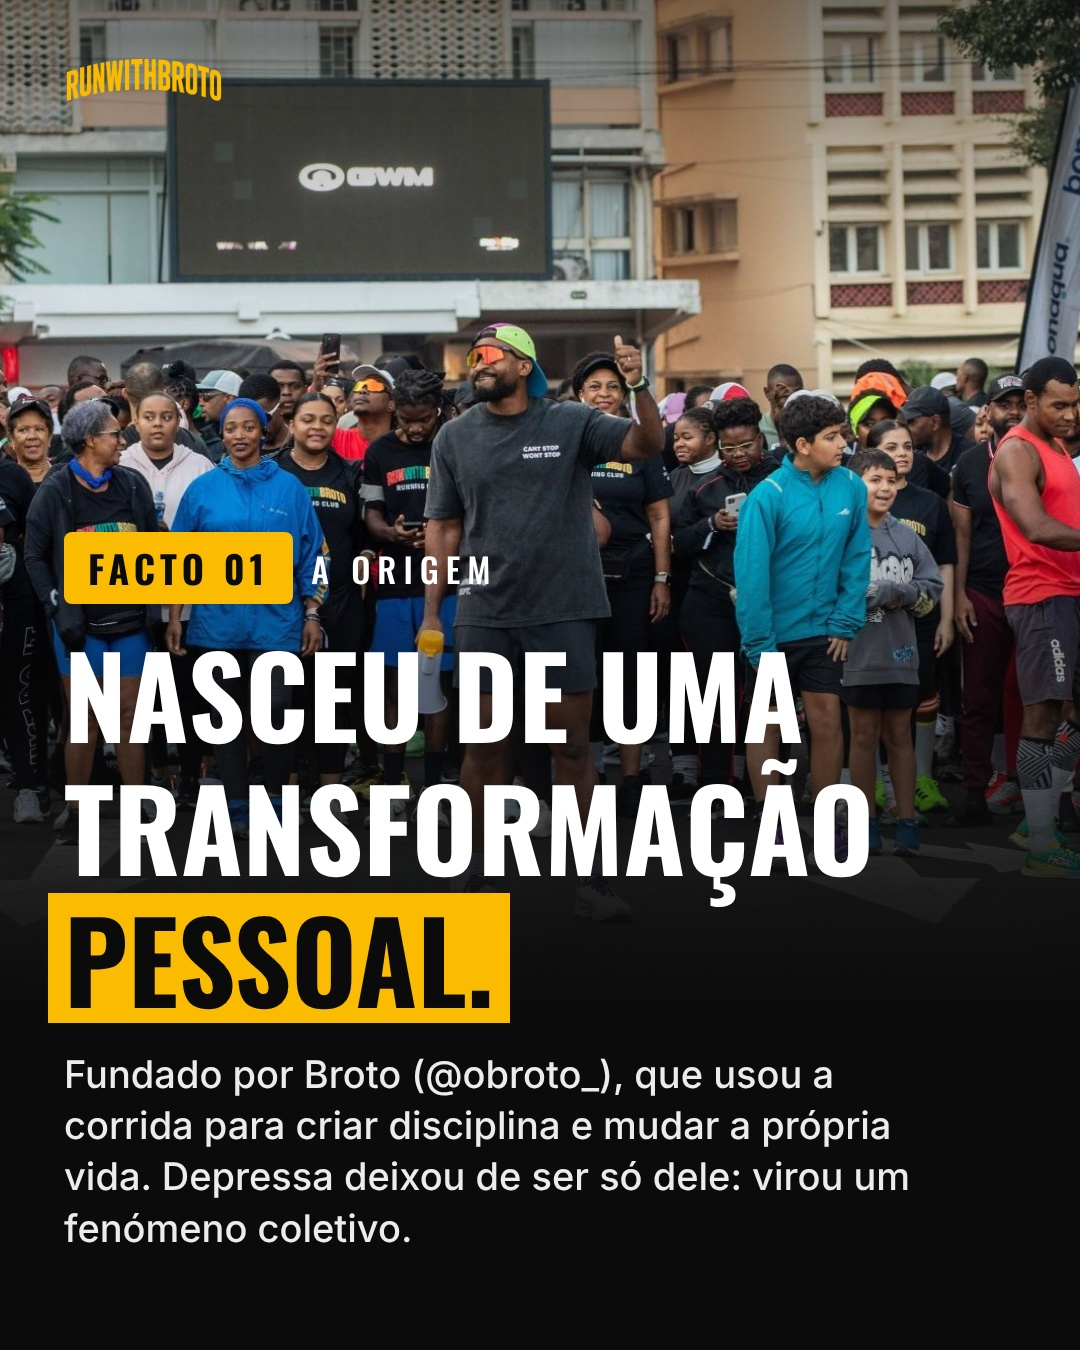
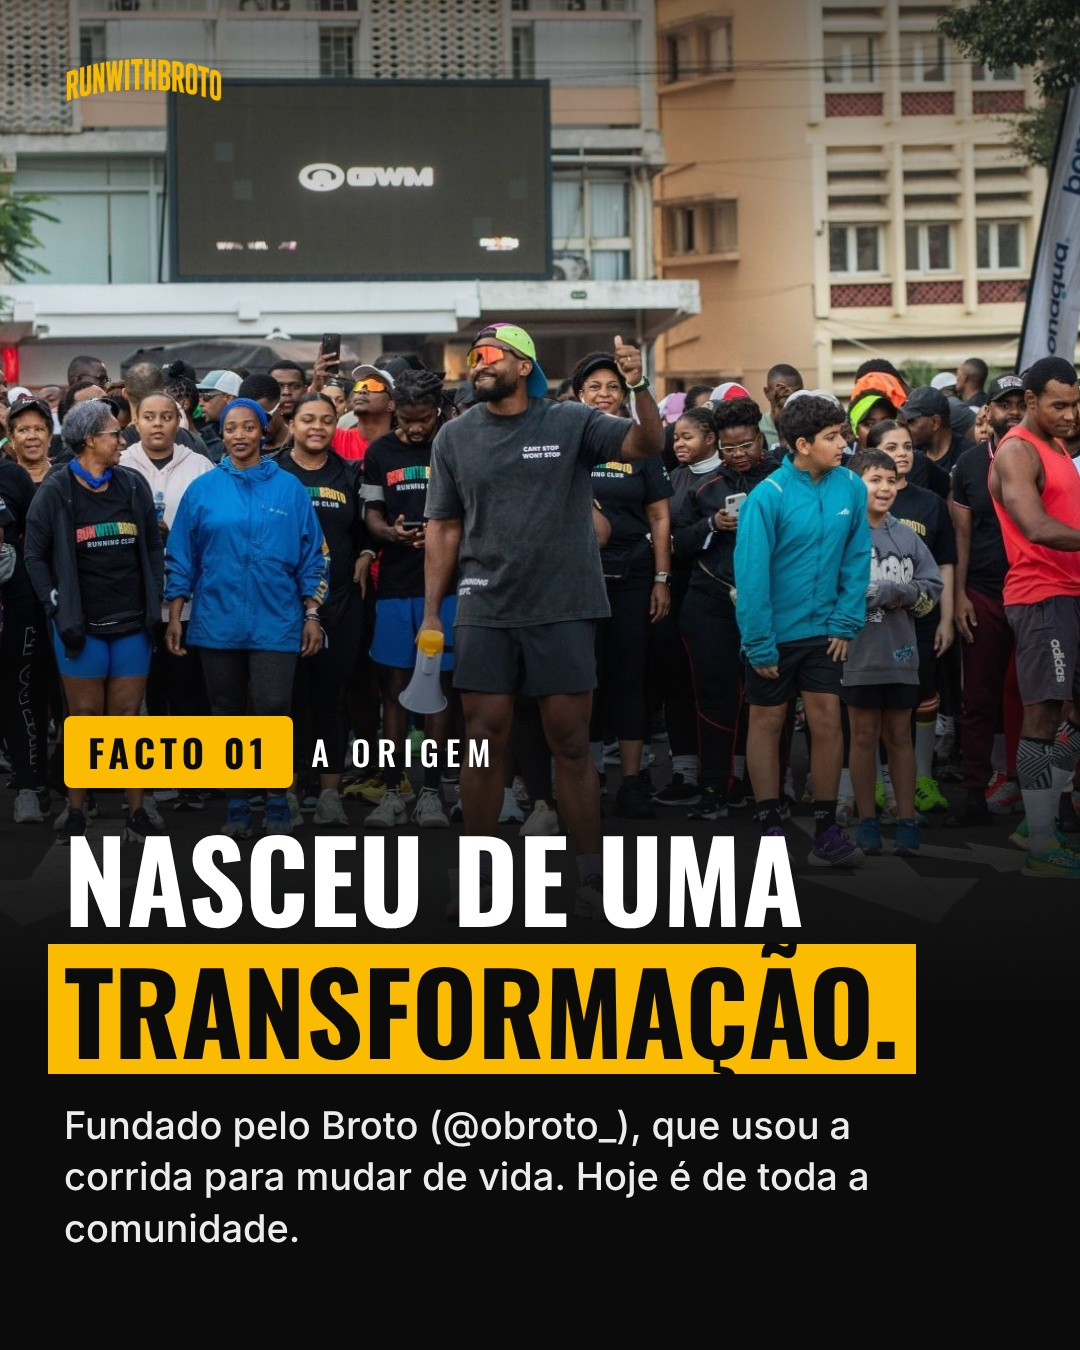
Carrossel: fotos limpas nos factos 2 e 3, texto do facto 1 resumido e painel LED no facto 6
Claude-Session: https://claude.ai/code/session_01DkaCWGXuFd6yQ1MSFtQr7D

Changed region(s): [[0.0306, 0.3733, 0.8556, 0.9333]]

diff --git a/src/Carousel.tsx b/src/Carousel.tsx
@@ -201,6 +201,42 @@ const NightArt: React.FC<{accent: string}> = ({accent}) => {
   );
 };
 
+/** Painel de pontos luminosos (estilo LED) a escrever o número. */
+const LED_FONT: Record<string, string[]> = {
+  "0": ["01110", "10001", "10011", "10101", "11001", "10001", "01110"],
+  "1": ["00100", "01100", "00100", "00100", "00100", "00100", "01110"],
+  "2": ["01110", "10001", "00001", "00010", "00100", "01000", "11111"],
+  "5": ["11111", "10000", "11110", "00001", "00001", "10001", "01110"],
+  "+": ["00000", "00100", "00100", "11111", "00100", "00100", "00000"],
+};
+const LedNumber: React.FC<{text: string; accent: string}> = ({text, accent}) => {
+  const P = 28; // passo entre pontos
+  const PAD_BOARD = 30;
+  const lit: {x: number; y: number}[] = [];
+  const off: {x: number; y: number}[] = [];
+  let col = 0;
+  text.split("").forEach((c, k) => {
+    LED_FONT[c].forEach((row, y) => row.split("").forEach((v, x) => (v === "1" ? lit : off).push({x: col + x, y})));
+    col += 5 + (k === 1 ? 3 : 1); // pausa maior a seguir ao 2 (lê-se "2 500")
+  });
+  const cols = col - 1;
+  const w = cols * P + PAD_BOARD * 2, h = 7 * P + PAD_BOARD * 2;
+  const cx = (x: number) => PAD_BOARD + x * P + P / 2, cy = (y: number) => PAD_BOARD + y * P + P / 2;
+  return (
+    <svg width={w} height={h} viewBox={`0 0 ${w} ${h}`} style={{display: "block", marginBottom: 26}}>
+      <rect x="1" y="1" width={w - 2} height={h - 2} rx="30" fill="rgba(8,8,10,0.88)" stroke="rgba(255,255,255,0.14)" strokeWidth="2" />
+      {off.map(({x, y}, i) => <circle key={`o${i}`} cx={cx(x)} cy={cy(y)} r={4} fill="#fff" opacity={0.14} />)}
+      {lit.map(({x, y}, i) => (
+        <g key={i}>
+          <circle cx={cx(x)} cy={cy(y)} r={13} fill={accent} opacity={0.22} />
+          <circle cx={cx(x)} cy={cy(y)} r={10.5} fill={accent} />
+          <circle cx={cx(x) - 3} cy={cy(y) - 3} r={3.6} fill="#fff" opacity={0.6} />
+        </g>
+      ))}
+    </svg>
+  );
+};
+
 const Fact: React.FC<{s: FactSlide}> = ({s}) => {
   const lines = s.title.split("\n");
   const stat = s.stat;
@@ -224,7 +260,8 @@ const Fact: React.FC<{s: FactSlide}> = ({s}) => {
           <div style={{background: s.accent, color: INK, fontFamily: OSWALD, fontWeight: 700, fontSize: 38, letterSpacing: 5, padding: "8px 24px", borderRadius: 8}}>{s.kicker}</div>
           <div style={{fontFamily: OSWALD, fontWeight: 500, fontSize: 34, letterSpacing: 7, color: "#fff"}}>{s.chapter}</div>
         </div>
-        {stat && (stat.stamp
+        {stat && stat.led && <LedNumber text={stat.text} accent={s.accent} />}
+        {stat && !stat.led && (stat.stamp
           ? <div style={{display: "inline-block", background: s.accent, color: INK, fontFamily: OSWALD, fontWeight: 700, fontSize: 190, lineHeight: 1, padding: "4px 30px 12px", borderRadius: 8, transform: "rotate(-3deg)", marginBottom: 14}}>{stat.text}</div>
           : <div style={{fontFamily: OSWALD, fontWeight: 700, fontSize: 250, lineHeight: 0.95, color: s.accent, textShadow: "0 6px 40px rgba(0,0,0,0.5)"}}>{stat.text}</div>)}
         {lines.map((l, k) => {
@@ -236,7 +273,7 @@ const Fact: React.FC<{s: FactSlide}> = ({s}) => {
             </div>
           );
         })}
-        <div style={{fontFamily: INTER, fontWeight: 500, fontSize: 38, lineHeight: 1.35, color: "#ececec", marginTop: 26, maxWidth: 900}}>{s.body}</div>
+        {s.body && <div style={{fontFamily: INTER, fontWeight: 500, fontSize: 38, lineHeight: 1.35, color: "#ececec", marginTop: 26, maxWidth: 900}}>{s.body}</div>}
       </div>
     </AbsoluteFill>
   );

diff --git a/src/facts.ts b/src/facts.ts
@@ -18,12 +18,12 @@ export type Fact = {
 };
 
 export const FACTS: Fact[] = [
-  {kicker: "FACTO 01", chapter: "A ORIGEM", anim: "slideUp", title: "Nasceu de uma\ntransformação\npessoal.", body: "Fundado por Broto (@obroto_), que usou a corrida para criar disciplina e mudar a própria vida. Depressa deixou de ser só dele: virou um fenómeno coletivo.", photo: "photos/broto.jpg"},
-  {kicker: "FACTO 02", chapter: "A EXPANSÃO", anim: "slideUp", title: "Nasceu em\nMaputo.\nChegou à Matola.", body: "A comunidade saiu de Maputo e levou a corrida a novas ruas.", photo: "photos/02.jpg", cut: "photos/02-cut.png", pos: "52% 50%", route: ["MAPUTO", "MATOLA"]},
-  {kicker: "FACTO 03", chapter: "O LEMA", anim: "words", deco: "pack", title: "Ninguém fica\npara trás.", body: "We run together. We grow together. A consistência vence a motivação. E a rua é para todos.", photo: "photos/03.jpg", cut: "photos/03-cut.png"},
+  {kicker: "FACTO 01", chapter: "A ORIGEM", anim: "slideUp", title: "Nasceu de uma\ntransformação.", body: "Fundado pelo Broto (@obroto_), que usou a corrida para mudar de vida. Hoje é de toda a comunidade.", photo: "photos/broto.jpg"},
+  {kicker: "FACTO 02", chapter: "A EXPANSÃO", anim: "slideUp", title: "Nasceu em\nMaputo.\nChegou à Matola.", body: "A comunidade saiu de Maputo e levou a corrida a novas ruas.", photo: "photos/02.jpg", pos: "52% 50%", route: ["MAPUTO", "MATOLA"]},
+  {kicker: "FACTO 03", chapter: "O LEMA", anim: "words", deco: "pack", title: "Ninguém fica\npara trás.", body: "We run together. We grow together. A consistência vence a motivação. E a rua é para todos.", photo: "photos/03.jpg",},
   {kicker: "FACTO 04", chapter: "O RITUAL", anim: "slideX", accent: "#6aa7ff", title: "Quinta é dia\nde Caracol", body: "Todas as quintas à noite, a Night Run parte do Caracol, em Maputo.", photo: "photos/night.jpg"},
   {kicker: "FACTO 05", chapter: "O FORMATO", anim: "zoom", title: "Hybrid\nrace", body: "Cada grupo partiu de um ponto diferente. Todos se encontraram na mesma meta.", photo: "photos/fort.jpg"},
-  {kicker: "FACTO 06", chapter: "A COMUNIDADE", anim: "wipeX", deco: "dots", title: "membros\nactivos.", body: "Eventos chegam a ter mais de 1 000 inscrições numa única semana.", photo: "photos/nov.jpg", stat: {to: 2500, prefix: "+"}},
+  {kicker: "FACTO 06", chapter: "A COMUNIDADE", anim: "wipeX", deco: "dots", title: "membros\nactivos.", body: "", photo: "photos/04.jpg", stat: {to: 2500, prefix: "+"}},
   {kicker: "FACTO 07", chapter: "AS CAUSAS", anim: "slideX", accent: "#ff5fa2", title: "inscritos no\nOutubro Rosa.", body: "Uma corrida para conscientizar sobre a prevenção do câncer de mama.", photo: "photos/05.jpg", stat: {to: 1000, prefix: "+"}},
   {kicker: "FACTO 08", chapter: "A LIBERDADE", anim: "zoom", accent: "#ff8a1f", deco: "sun", title: "Ao amanhecer.", body: "No Dia da Independência, centenas de pessoas correm juntas, celebrando a liberdade em movimento.", photo: "photos/06.jpg", cut: "photos/06-cut.png", stat: {text: "25 JUN"}},
 ];

diff --git a/src/carousel.ts b/src/carousel.ts
@@ -7,16 +7,16 @@ export const HANDLE = "@runwithbroto_";
 
 export type FactSlide = {
   kind: "fact"; kicker: string; chapter: string; title: string; body: string; photo: string; cut?: string; pos: string;
-  accent: string; night?: boolean; shift?: number; diagram?: "hybrid" | "night"; stat?: {text: string; stamp?: boolean};
+  accent: string; night?: boolean; shift?: number; diagram?: "hybrid" | "night"; stat?: {text: string; stamp?: boolean; led?: boolean};
 };
 export type Slide = {kind: "cover"; prompt: string; photo: string; pos: string} | FactSlide | {kind: "cta"};
 
 const BRAND = "#fabb00";
 // foto / recorte / enquadramento de cada facto (mesma ordem de FACTS em facts.ts)
 const LOOK = [
-  {pos: "49% 50%", shift: 170}, {pos: "40% 50%"}, {pos: "50% 35%"}, {pos: "50% 0%", shift: 290, diagram: "night"}, {pos: "50% 60%", diagram: "hybrid"}, {pos: "50% 30%"}, {pos: "50% 40%"}, {pos: "50% 0%"},
+  {pos: "49% 50%", shift: 170}, {pos: "28% 50%"}, {pos: "50% 35%"}, {pos: "50% 0%", shift: 290, diagram: "night"}, {pos: "50% 60%", diagram: "hybrid"}, {pos: "50% 50%"}, {pos: "50% 40%"}, {pos: "50% 0%"},
 ];
-const STAT = [undefined, undefined, undefined, undefined, undefined, {text: "+2 500"}, {text: "+1 000"}, {text: "25 JUN", stamp: true}];
+const STAT = [undefined, undefined, undefined, undefined, undefined, {text: "+2500", led: true}, {text: "+1 000"}, {text: "25 JUN", stamp: true}];
 
 export const SLIDES: Slide[] = [
   {kind: "cover", prompt: PROMPT, photo: "photos/cover.jpg", pos: "50% 0%"},
